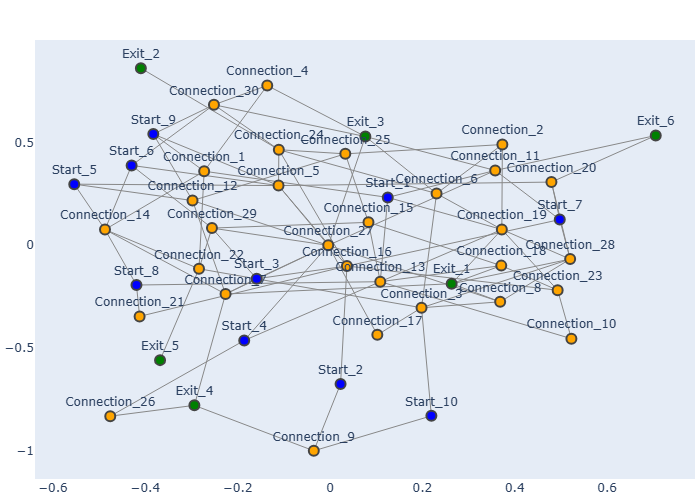
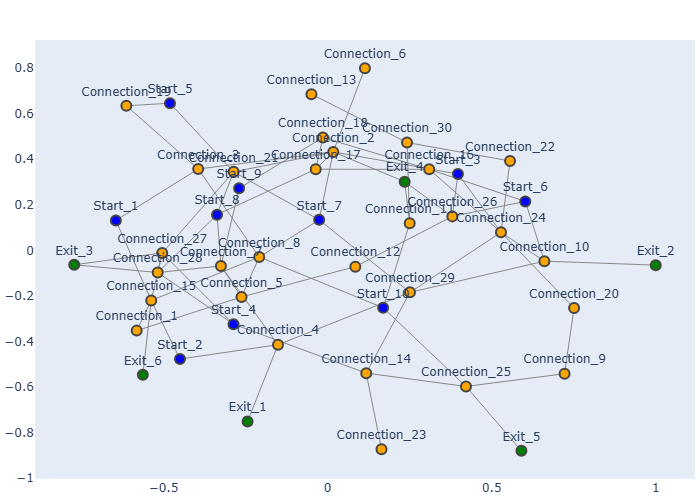
code working - not great scores. Need to work out why.....

diff --git a/jax_ga_tutorial.py b/jax_ga_tutorial.py
@@ -2,34 +2,45 @@ import jax
 import jax.numpy as jnp
 
 from jax import random
+import numpy as np
 
 import networkx as nx
 import matplotlib.pyplot as plt
 
 import itertools
+import pickle
 
 
 class Environment:
 
-    def __init__(self):
-        self.graph = self.create_graph()
-        self.starts = ["C", "B"]
-        self.exits = ["E", "F", "G"]
+    def __init__(self, city_name: str):
+        self.graph = self.create_graph(city_name)
+        self.starts = self.extract_node_types(node_type='start')
+        self.exits = self.extract_node_types(node_type='exit')
 
-    def create_graph(self) -> nx.Graph:
-        G = nx.Graph()
-
-        edges = [
-            ("E", "A"),
-            ("C", "A"),
-            ("B", "A"),
-            ("C", "D"),
-            ("D", "B"),
-            ("D", "F"),
-            ("D", "G"),
-        ]
-        G.add_edges_from(edges)
+    def create_graph(self, city_name: str) -> nx.Graph:
+        G = pickle.load(open(f'{city_name}.pickle', 'rb'))
         return G
+    
+    def extract_node_types(self, node_type: str) -> list:
+        filtered_nodes = [n for n, attr in self.graph.nodes(data=True) if attr.get('type') == node_type]
+        return filtered_nodes
+
+    # def create_graph(self) -> nx.Graph:
+    #     # TODO: how are you creating more "cities"
+    #     G = nx.Graph()
+
+    #     edges = [
+    #         ("E", "A"),
+    #         ("C", "A"),
+    #         ("B", "A"),
+    #         ("C", "D"),
+    #         ("D", "B"),
+    #         ("D", "F"),
+    #         ("D", "G"),
+    #     ]
+    #     G.add_edges_from(edges)
+    #     return G
 
     def __str__(self):
         nx.draw(
@@ -51,8 +62,15 @@ class Agent:
         self.path = self.generate_random_path()
 
         self.path_history = []
+        
+        # Test characteristic
+        # TODO: what should the mutation rate even be?
+        self.panic = 0.1
+        # TODO: might want to add stuff later so safer
+        self.mutation_rate = self.panic 
 
     def select_start_point(self) -> str | int:
+        # TODO - stop this from being overwritten once done once.
         start_points = self.city.starts
         self.key, sub_key = random.split(self.key)
         idx = random.randint(sub_key, (), 0, len(start_points))
@@ -85,14 +103,14 @@ class Chromosome:
     # chromosome = Chromosome(
     #     paths={"agent1": agent1_path1, "agent2": agent2_path1, "agent3": agent3_path1}
     # )
-    def __init__(self, paths: dict[str, list]):
+    def __init__(self, agents: dict[str, list]):
         # paths = {'agent1': [1, 2, 3]}
-        self.paths = paths
+        self.agents = agents
         self.fitness = None
 
     def calculate_fitness(self) -> None:
         # Super basic assumption of 1 step = 1 time unit.
-        path_length = [len(path.path) for path in self.paths.values()]
+        path_length = [len(agent.path) for agent in self.agents.values()]
         total_evac_time = max(path_length)
         self.fitness = total_evac_time
 
@@ -104,69 +122,91 @@ class GeneticAlgorithm:
 
     def crossover(self, parents):
         parent1, parent2 = parents
-        agents = list(parent1.paths)
+        agents = parent1.agents
 
         # FIXME - carry on from here.
-
-        cut = random.randint(1, len(agents) - 1)
+        self.key, sub_key = random.split(self.key)
+        # Not starting at zero because that's the start and don't want the full length as can't crossover at the end either.
+        cut = random.randint(minval=1, maxval=len(agents) - 1, key=sub_key, shape=())
 
         child1, child2 = {}, {}
-        for i, agent in enumerate(agents):
+        for i, agent_name in enumerate(agents):
             if i < cut:
-                child1[agent] = parent1[agent]
-                child2[agent] = parent2[agent]
+                child1[agent_name] = parent1.agents[agent_name]
+                child2[agent_name] = parent2.agents[agent_name]
             else:
-                child1[agent] = parent2[agent]
-                child2[agent] = parent1[agent]
+                child1[agent_name] = parent2.agents[agent_name]
+                child2[agent_name] = parent1.agents[agent_name]
+                
+        child1_chromosome = Chromosome(agents=child1)
+        child2_chromosome = Chromosome(agents=child2)
 
-        return child1, child2
+        return child1_chromosome, child2_chromosome
 
-    def repair_path(self, path, graph):
-        exits = graph.exits
+    def repair_path(self, path, city, agent_key):
+        exits = city.exits
 
         current_location = path[-1]
         if current_location in exits:
-            return path
+            return path, agent_key
 
         while current_location not in exits:
-            neighbours = graph[current_location]
+            neighbours = list(city.graph[current_location])
 
-            self.key, sub_key = random.split(self.key)
-            idx = random.randint(sub_key, (), 0, len(neighbours))
+            agent_key, agent_sub_key = random.split(agent_key)
+            idx = random.randint(agent_sub_key, (), 0, len(neighbours))
             next_location = neighbours[idx]
             path.append(next_location)
             current_location = next_location
 
-        return path
+        return path, agent_key
 
-    def mutation(self, chromosome, graph, mutation_rate=0.3):
-        for agent, path in chromosome.items():
-            if random.random() < mutation_rate:
+    def mutation(self, chromosome, city):
+        mutation_occured = False
+        for agent_name, agent_obj in chromosome.agents.items():
+            
+            agent_obj.key, agent_sub_key = random.split(agent_obj.key)
+            mutation_probability = random.uniform(agent_sub_key, shape=(), minval=0.0, maxval=1.0)
+            
+            # TODO: later some agents will have different mutation rates e.g. panic.
+            if mutation_probability < agent_obj.mutation_rate:
+                mutation_occured = True
+            
+                # if random_number < hestinancy_probability:
+                #     go to same step
+                # else:
+                agent_obj.key, agent_sub_key = random.split(agent_obj.key)
 
-                self.key, sub_key = random.split(self.key)
-
-                change_location = random.randint(sub_key, 1, len(path) - 1)
+                path = agent_obj.path
+                change_location = random.randint(key=agent_sub_key, minval=1, maxval=len(path) - 1, shape=())
                 current_location = path[change_location]
-                neighbours = graph[current_location]
-                new_location = random.choice(neighbours)
+                neighbours = list(city.graph[current_location])
+                
+                agent_obj.key, agent_sub_key = random.split(agent_obj.key)
+                # TODO I DONT WANT IT TO GO IMMEDIATELY BACK ON SELF (hestinancy if decide to do it can do in fitness function see chaos above.)
+                new_location_idx = random.randint(key=agent_sub_key, shape=(), minval=0, maxval=len(neighbours))
+                new_location = neighbours[new_location_idx]
 
                 new_partial = path[: change_location + 1] + [new_location]
 
-                repaired_path = self.repair_path(new_partial, graph)
-                chromosome[agent] = repaired_path
+                repaired_path, agent_obj.key = self.repair_path(new_partial, city, agent_obj.key)
+                chromosome.agents[agent_name].path = repaired_path
 
-        return chromosome
+        return chromosome, mutation_occured
 
     @staticmethod
     def find_parent(percent, population, cumulative_fitness):
-        for ind, cf in zip(population, cumulative_fitness):
-            if percent <= cf:
-                return ind
+        for chromosome, fitness in zip(population, cumulative_fitness):
+            if percent <= fitness:
+                return chromosome
 
     def selection(self, population):
-        # tournament / roulette wheel.
+        # roulette wheel.
+        # TODO: don't think i need to do this but check before remove.
         [chromosome.calculate_fitness() for chromosome in population]
-        fitness = [1 / (chromosome.fitness + 0.00001) for chromosome in population]
+        
+        # 1 over as need shorter lengths to be considered "fitter"
+        fitness = [1 / chromosome.fitness for chromosome in population]
         total_fitness = sum(fitness)
 
         scaled_fitness = [f / total_fitness for f in fitness]
@@ -182,26 +222,26 @@ class GeneticAlgorithm:
         return parents
 
 
-city = Environment()
+city = Environment(city_name='small_city_graph')
 
-num_agents = 3
-population_size = 10
+num_agents = 10
+population_size = 20
 
 # TODO: generate the population
 population = []
 random_seed_count = 1
 for i in range(population_size):
-    paths = {}
+    agent_paths = {}
     for agent in range(num_agents):
-        paths[agent] = Agent(
-            name=f"Agent{agent}_Population{i}", city=city, path_seed=random_seed_count
+        agent_paths[agent] = Agent(
+            name=f"Agent{agent}_Chromosome{i}", path_seed=random_seed_count, city=city
         )
 
         # TODO: need to ensure each agent has different random seed for each population.
         # TODO: google this more...
         random_seed_count += 1
 
-    chromosome = Chromosome(paths=paths)
+    chromosome = Chromosome(agents=agent_paths)
     chromosome.calculate_fitness()
     population.append(chromosome)
 
@@ -209,13 +249,42 @@ for i in range(population_size):
 key = random.PRNGKey(12345)
 # TODO: Selection, Cross over, mutation loop.
 ga = GeneticAlgorithm(key=key)
-parents = ga.selection(population=population)
-parent_pairs = chunks = list(zip(parents[::2], parents[1::2]))
+avg_score = []
 
-children = []
-for pair in parent_pairs:
-    parent_children = ga.crossover(parents=pair)
-    children += parent_children
+for evolution in range(100):
+    # Step 1 - select the parents
+    parents = ga.selection(population=population)
+    parent_pairs = list(zip(parents[::2], parents[1::2]))
 
+    # Step 2 - create the children
+    children = []
+    for pair in parent_pairs:
+        parent_children = ga.crossover(parents=pair)
+        children += parent_children
 
-print("pause")
+    # Step 3 - mutate 
+    new_children = []
+    for child in children:
+        replacement_child, mutation_occured = ga.mutation(chromosome=child, city=city)
+        if mutation_occured:
+            new_children.append(replacement_child)
+        
+    # Step 4 - select the population going forward e.g. all children or based on fitness score.
+    population += [child for child in new_children + children]
+    # TODO: what do I want to track over the evolutions
+    [chromosome.calculate_fitness() for chromosome in population]
+    fitness = [chromosome.fitness for chromosome in population]
+    
+    
+    pairs = list(zip(population, fitness))
+    sorted_pairs = sorted(pairs, key=lambda x: x[1])
+    population = [key for key, _ in sorted_pairs[:population_size]]
+    
+    avg_score.append(np.mean(fitness))
+    print(f'Finished evolution # {evolution} with average fitness score: {np.mean(fitness)}\n')
+
+plt.plot(range(len(avg_score)), avg_score)
+plt.title('Average Fitness Score over each evolution')
+plt.xlabel('Evolution')
+plt.ylabel('Average Fitness Score')
+plt.show()

diff --git a/city_creation.py b/city_creation.py
@@ -7,6 +7,7 @@ import pickle
 num_start_nodes = 10
 num_exit_nodes = 6
 num_connection_nodes = 30
+POTENTIAL_CONNECTIONS = 2
 
 # Create a directed graph
 G = nx.Graph()
@@ -33,7 +34,7 @@ for c, _ in connection_nodes:
     exit_nodes_names = [e for e, _ in exit_nodes]
     possible_targets = connection_node_names + exit_nodes_names
     possible_targets.remove(c)  # Avoid self-loop
-    targets = random.sample(possible_targets, k=random.randint(1, 3))
+    targets = random.sample(possible_targets, k=random.randint(1, POTENTIAL_CONNECTIONS))
     for t in targets:
         G.add_edge(c, t)
 
